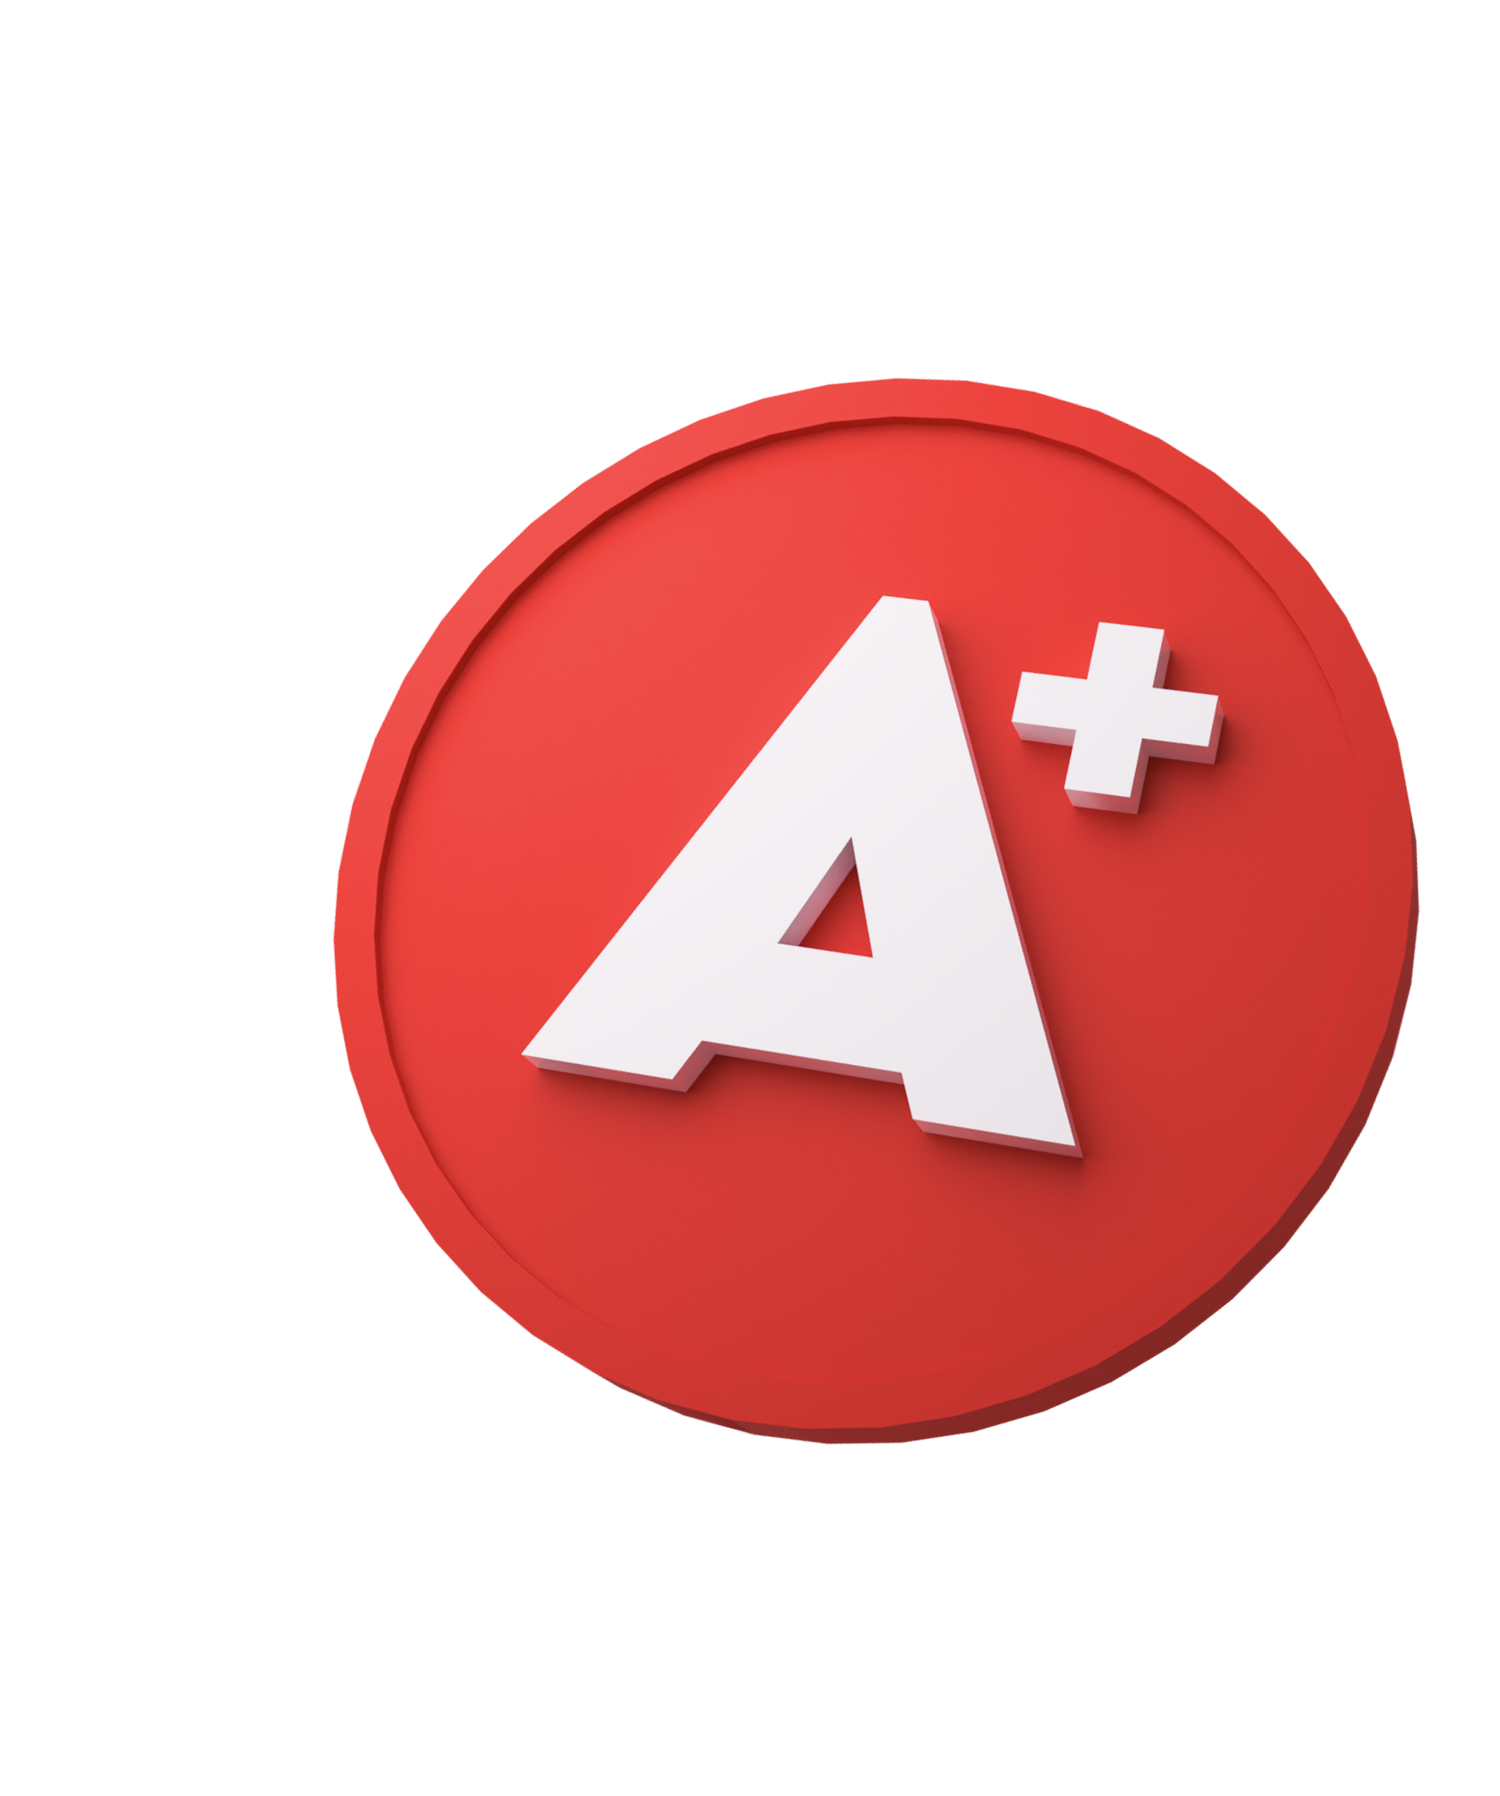
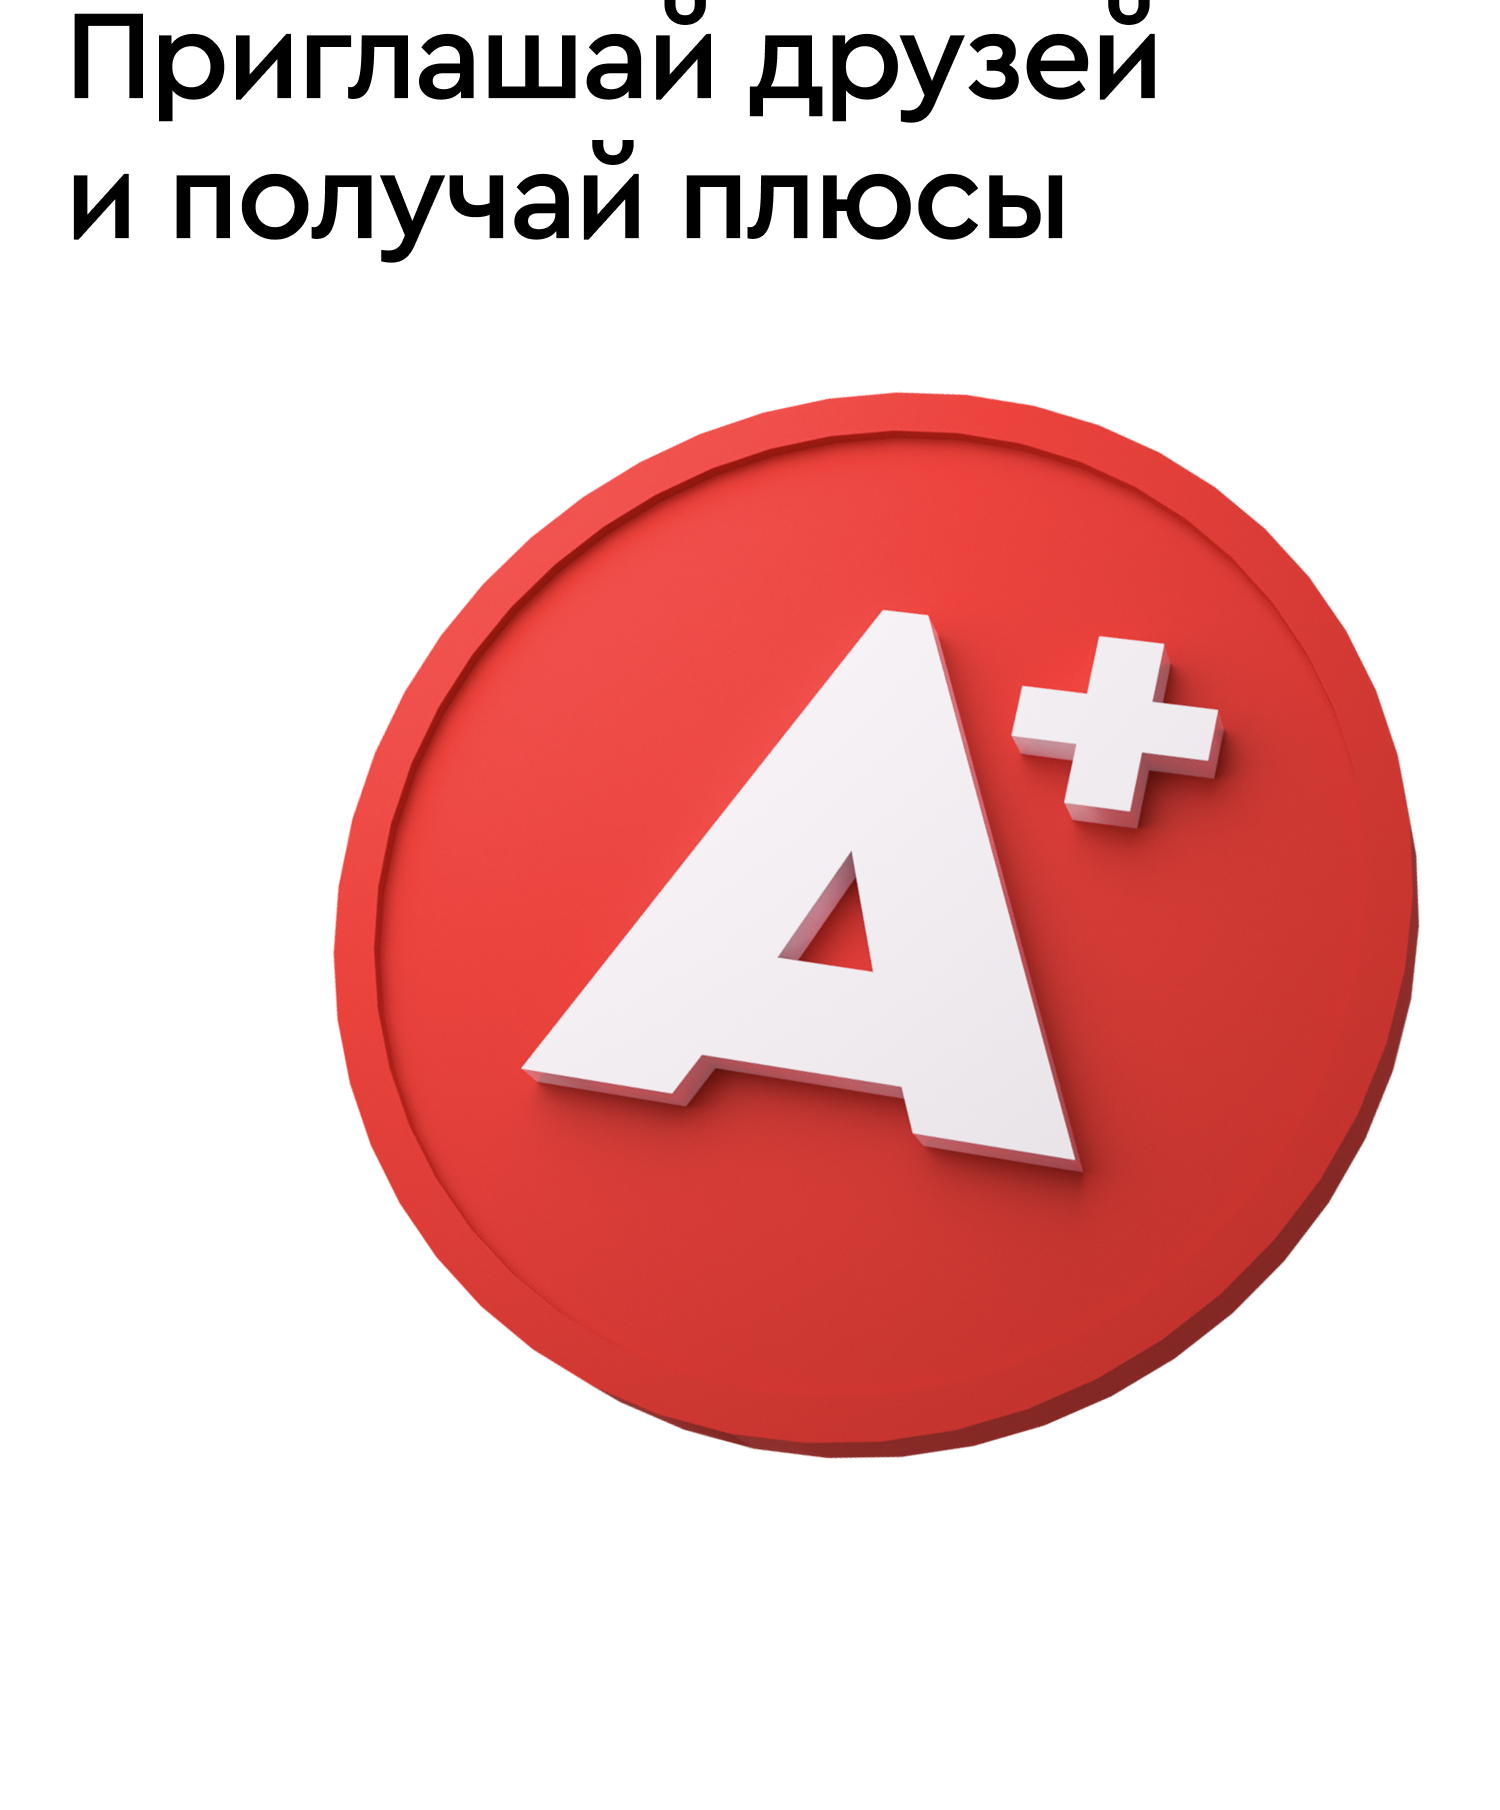
ещё фикс

diff --git a/src/app/(main)/friends/page.tsx b/src/app/(main)/friends/page.tsx
@@ -226,25 +226,20 @@ export default function FriendsPage() {
         <main className="friends-container">
           {/* Контейнер */}
           <div className="content-container">
-            {/* Верх */}
-            <div className="header-section">
-              <h1 className="page-title">Приглашай друзей и получай плюсы</h1>
-              
-              {/* Изображение */}
-              <div className="header-image">
-                <Image 
-                  src="/images/friends-header.png" 
-                  alt="Друзья" 
-                  width={580} 
-                  height={320}
-                  priority
-                  style={{
-                    width: '100%',
-                    height: 'auto',
-                    transform: 'rotate(13.77deg)',
-                  }}
-                />
-              </div>
+            {/* Верхняя карточка с изображением */}
+            <div className="header-image-wrapper">
+              <Image 
+                src="/images/friends-header.png" 
+                alt="Приглашай друзей" 
+                width={343} 
+                height={300}
+                priority
+                style={{
+                  width: '100%',
+                  height: 'auto',
+                  display: 'block',
+                }}
+              />
             </div>
 
             {/* Кнопка условия (первая) */}
@@ -356,8 +351,8 @@ export default function FriendsPage() {
             box-sizing: border-box;
           }
 
-          /* Верх */
-          .header-section {
+          /* Верхняя карточка с изображением */
+          .header-image-wrapper {
             display: flex;
             flex-direction: column;
             align-items: flex-start;
@@ -365,48 +360,11 @@ export default function FriendsPage() {
             gap: 10px;
             isolation: isolate;
             width: 100%;
-            height: 300px;
             flex: none;
             order: 0;
             align-self: stretch;
             flex-grow: 0;
             position: relative;
-          }
-
-          /* Приглашай друзей и получай плюсы */
-          .page-title {
-            margin: 0;
-            width: 284px;
-            height: 56px;
-            font-family: 'Cera Pro', -apple-system, BlinkMacSystemFont, sans-serif;
-            font-style: normal;
-            font-weight: 500;
-            font-size: 32px;
-            line-height: 110%;
-            leading-trim: both;
-            text-edge: cap;
-            display: flex;
-            align-items: flex-end;
-            letter-spacing: -0.03em;
-            color: #000000;
-            flex: none;
-            order: 0;
-            flex-grow: 0;
-            z-index: 0;
-          }
-
-          /* Изображение */
-          .header-image {
-            position: absolute;
-            width: 579.75px;
-            height: 320.11px;
-            left: calc(50% - 579.75px/2 - 8.63px);
-            top: 0px;
-            flex: none;
-            order: 2;
-            flex-grow: 0;
-            z-index: 2;
-            overflow: visible;
           }
 
           /* Кнопка условия (кликабельная) */
@@ -799,11 +757,6 @@ export default function FriendsPage() {
           @media (max-width: 375px) {
             .friends-container {
               padding: 48px 0px 100px;
-            }
-
-            .page-title {
-              font-size: 28px;
-              width: 250px;
             }
 
             .info-label,
